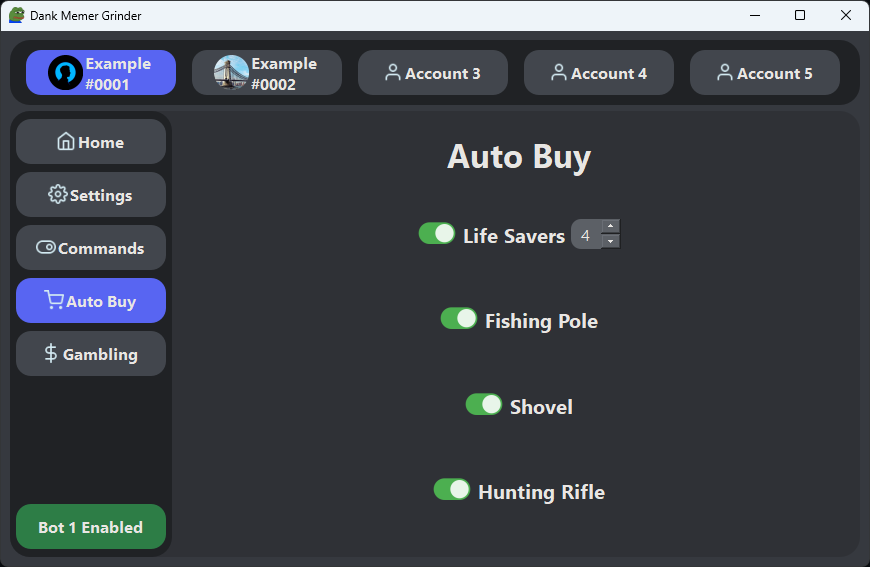
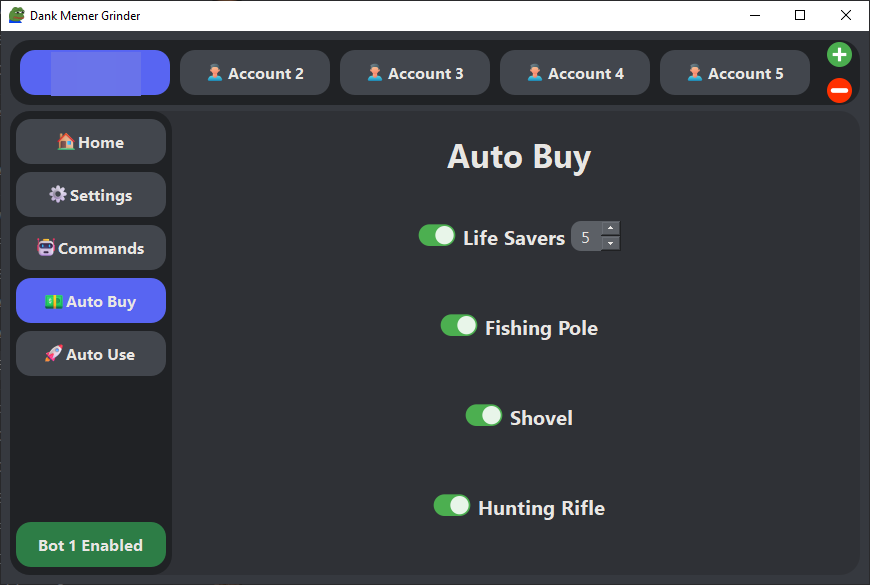
Update Readme (#100)
* Update readme
* Update photos
* Removed line 71

diff --git a/README.md b/README.md
@@ -48,7 +48,7 @@
   <img src=".github/assets/img/settings.png" width="400">
   <img src=".github/assets/img/commands.png" width="400">
   <img src=".github/assets/img/autobuy.png" width="400">
-  <img src=".github/assets/img/gambling.png" width="400">
+  <img src=".github/assets/img/autouse.png" width="400">
 </div>
 
 ## Installation
@@ -68,7 +68,6 @@
 * Run the command `git clone https://github.com/BridgeSenseDev/Dank-Memer-Grinder.git` in a terminal.
 * Run the command `cd Dank-Memer-Grinder` in a terminal.
 * Run the command `pip install -r .\requirements.txt` in a terminal.
-* Rename `config.json.example` to `config.json`.
 * To start the program, run the command `python main.py` in a terminal.
 
 ### Getting Started
